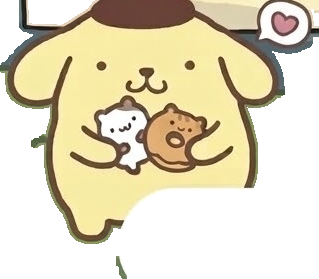
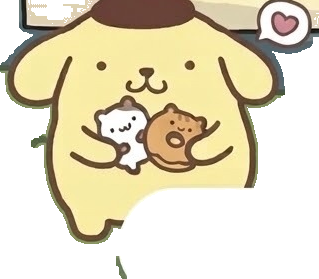
fix: 選關狗浮動時底圖不再露出白破圖
狗蓋住的地方改回草地和完整按鈕。

Changed region(s): [[0.0846, 0.0, 0.2257, 0.086], [0.1975, 0.0, 0.3103, 0.0573], [0.9592, 0.0287, 1.0, 0.1147]]

diff --git a/index.html b/index.html
@@ -66,9 +66,9 @@
 
   <main class="stage select-page" id="view-select" hidden>
     <div class="shot">
-      <img class="shot-plate" src="assets/select-plate.jpg?v=1" alt="趣味九九乘法表關卡選擇">
-      <img class="map-float map-float-a" src="assets/select-float-a.png?v=1" alt="" aria-hidden="true">
-      <img class="map-float map-float-b" src="assets/select-float-b.png?v=1" alt="" aria-hidden="true">
+      <img class="shot-plate" src="assets/select-plate.jpg?v=2" alt="趣味九九乘法表關卡選擇">
+      <img class="map-float map-float-a" src="assets/select-float-a.png?v=2" alt="" aria-hidden="true">
+      <img class="map-float map-float-b" src="assets/select-float-b.png?v=2" alt="" aria-hidden="true">
       <img class="map-needle" src="assets/select-needle.png?v=1" alt="" aria-hidden="true">
 
       <button class="hit hit-x" id="map-back" type="button" aria-label="回主畫面"></button>

diff --git a/HANDOFF.md b/HANDOFF.md
@@ -26,7 +26,7 @@
 
 1. `#view-home` 主畫面：森林壁紙 + 兩隻可愛狗狗 +「玩」。點畫面任何地方播 BGM。
 2. 「玩」呼叫 `Times99.show("select")`，不走 `location.href`。
-3. `#view-select` 選關：底圖 `assets/select-plate.jpg?v=1`，兩隻狗與指針是疊上去的動畫。一次只能選一顆。
+3. `#view-select` 選關：底圖 `assets/select-plate.jpg?v=2`，兩隻狗與指針是疊上去的動畫。一次只能選一顆。
 4. 「開始挑戰」→ `Times99.show("play", n)`。網址是 `index.html?view=play&n=1`…`9` 或 `n=mix`。沒選就提示「先點一個號碼球喔！」。
 5. 返回鍵用 `history.back()`。`select.html`、`play.html` 只給舊連結，進站就 `location.replace` 回殼。
 
